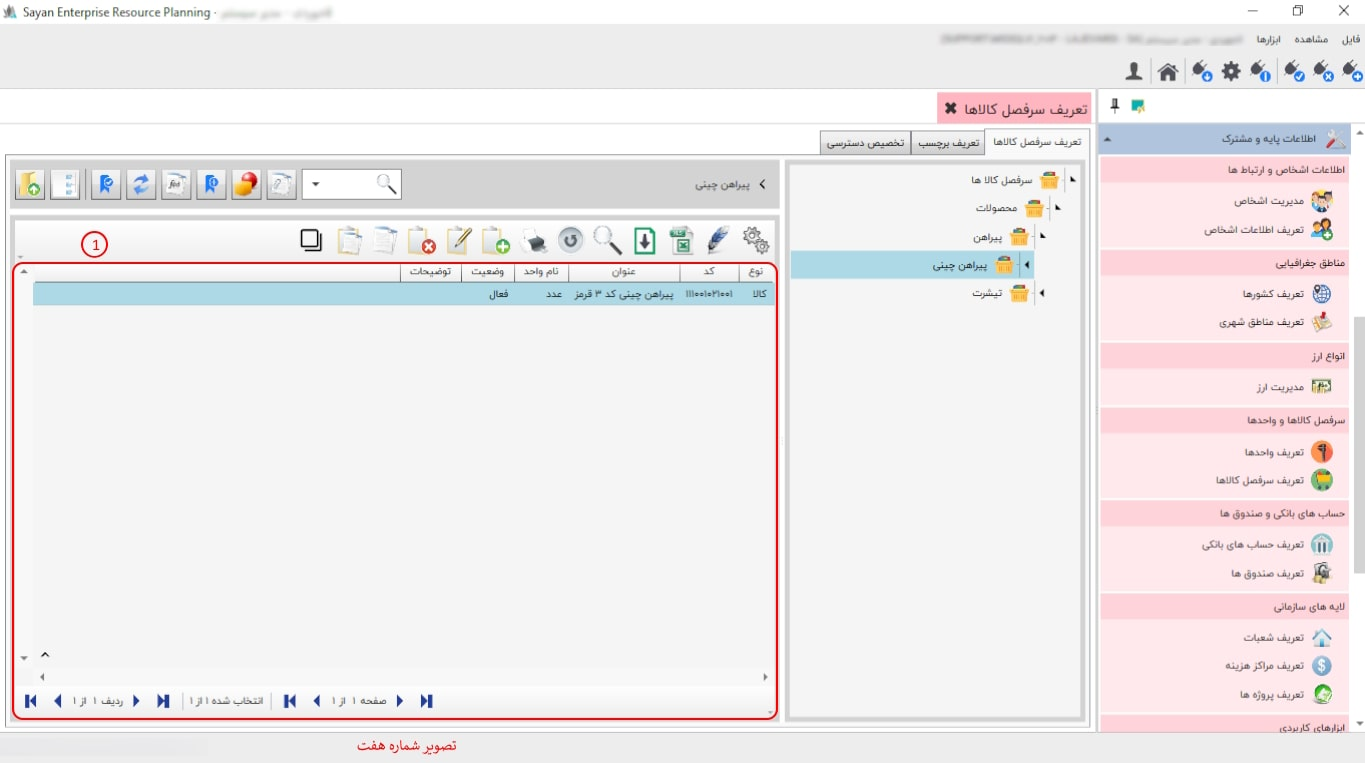
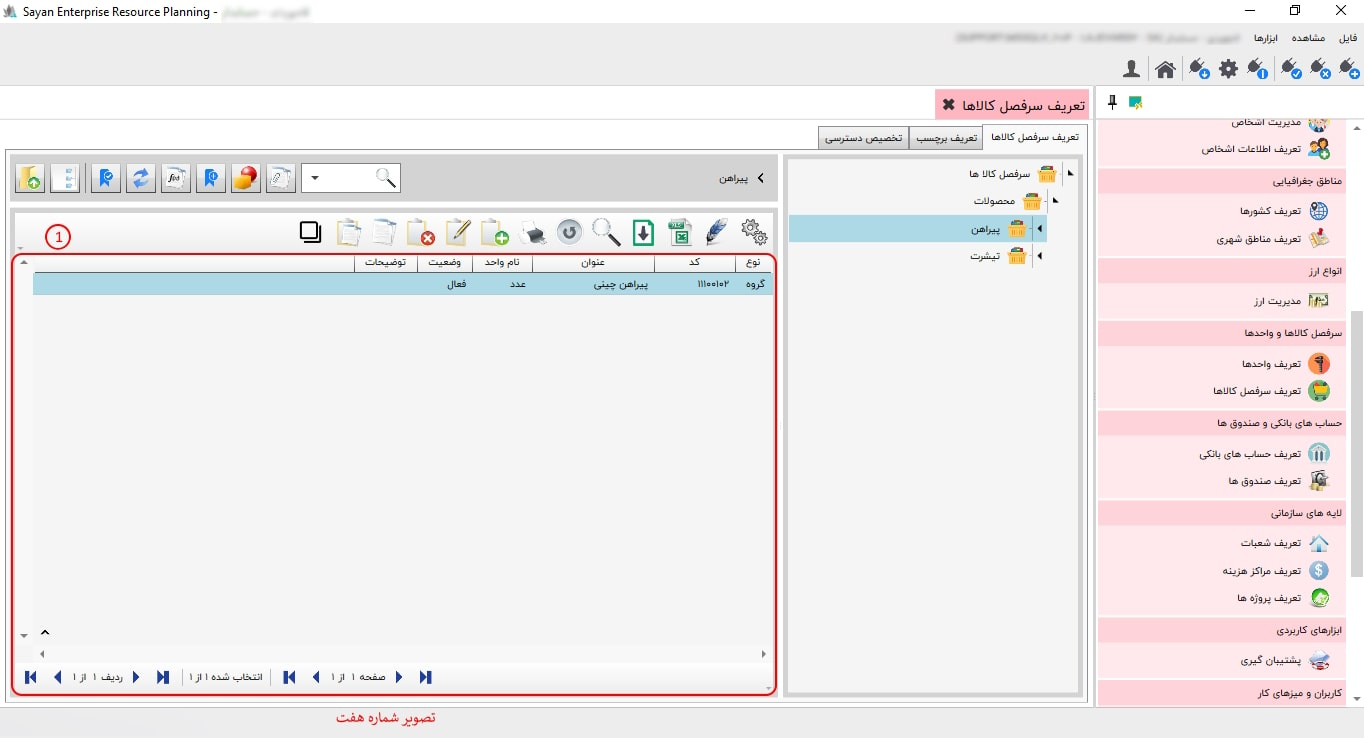
ایجاد متن

diff --git a/Help/fa-IR/_18_اطلاعات پایه و مشترک/_07_تعریف سرفصل کالاها/Index.html b/Help/fa-IR/_18_اطلاعات پایه و مشترک/_07_تعریف سرفصل کالاها/Index.html
@@ -87,24 +87,36 @@
 	کنید.
 	</p>
 	<p>
+		<img class="Icon" src="i2.png"/>
+	</p>
+	<p>
+		در این قسمت می بایست برای ایجاد گروه از این آیکون استفاده نمایید. 	
+	</p>
+	<p>
 		برای ادامه مطلب به تصویر شماره شش مراجعه نمایید.
 		
 	</p>
 	<img class="FitPic" src="l6.jpg" />
 	<p>
-	-کادر شماره:	
+	-کادر شماره:در این بخش ابتدا باید روی گزینه گروه کلیک نمایید. 	
 	<p>
-	-کدجزء(کادر شماره دوم):
+	-کدجزء(کادر شماره دوم):در این قسمت می بایست کد گروه خود را از 02 به بعد وارد نمایید.
 	</p>
 	<p>
-		-نام گروه (کادر شماره سوم):
+		-نام گروه (کادر شماره سوم):در این بخش می بایست نام گروه محصول خود را وارد نمایید.
 	</p>
 	<p>
 برای ادامه مطلب به تصویر شماره هفت مراجعه نمایید.
 	</p>
 	<img class="FitPic" src="l7.jpg" />
 	<p>
-		-کادر شماره یک:
+		-کادر شماره یک:این بخش، این امکان را به شما می دهد که تمامی گروه هایی که ایجاد کرده اید را مشاهده کنید.
+	</p>
+	<p>
+		<img class="Icon" src="i2.png"/>
+	</p>
+	<p>
+		در این قسمت می بایست برای ایجاد کالا از این آیکون استفاده نمایید. 
 	</p>
 	<p>
 		برای ادامه مطلب به تصویر شماره هشت مراجعه نمایید.
